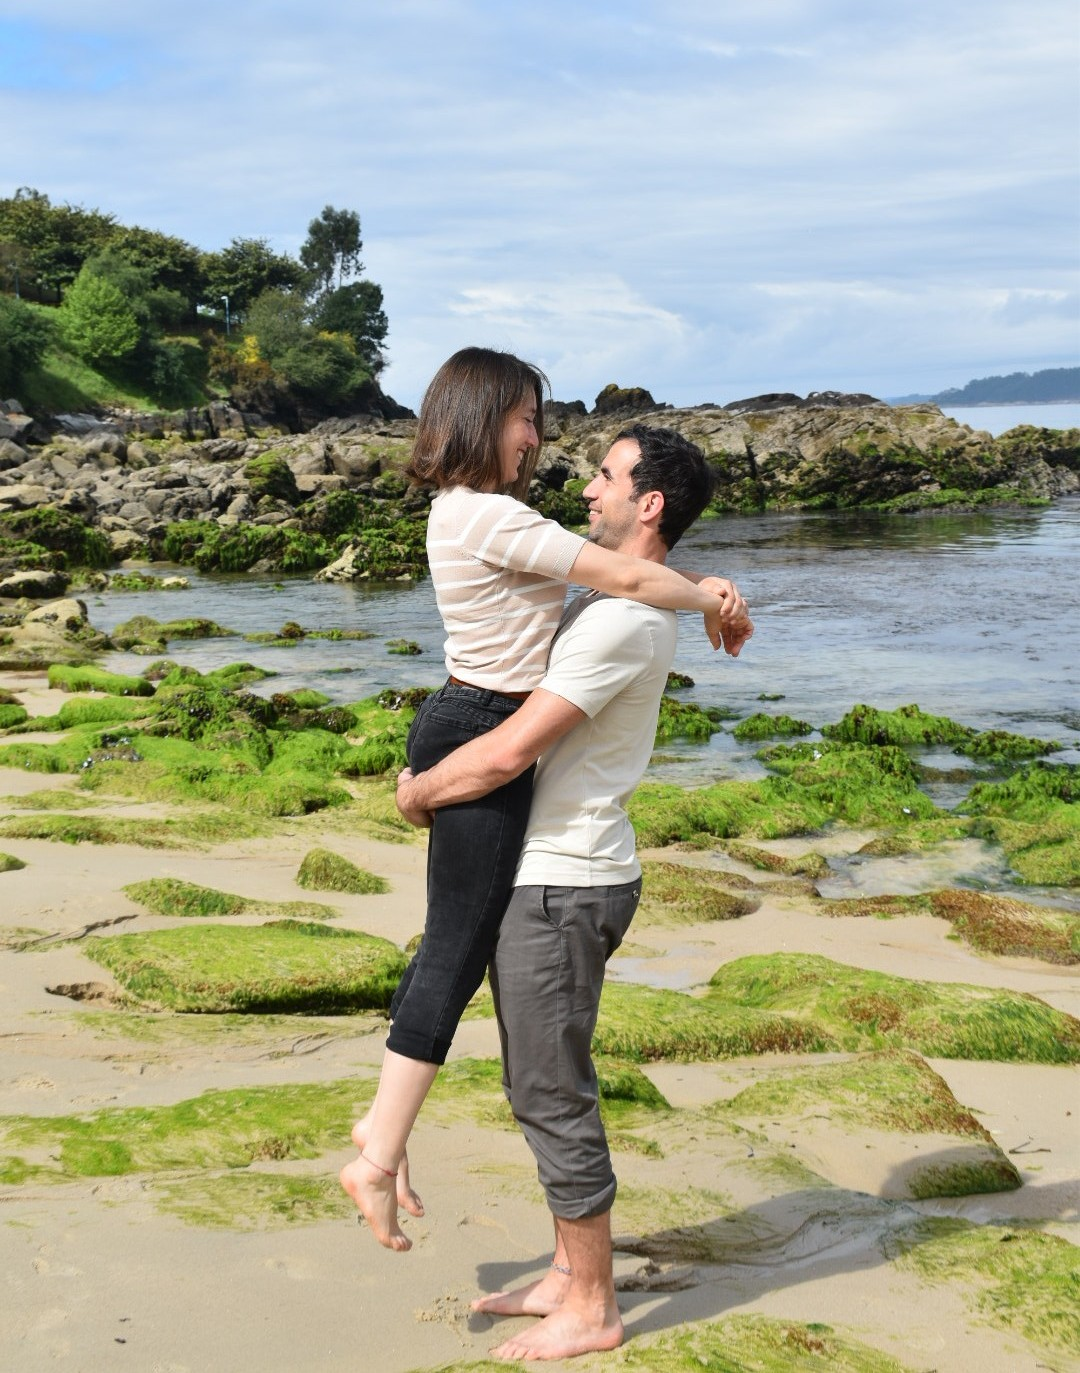
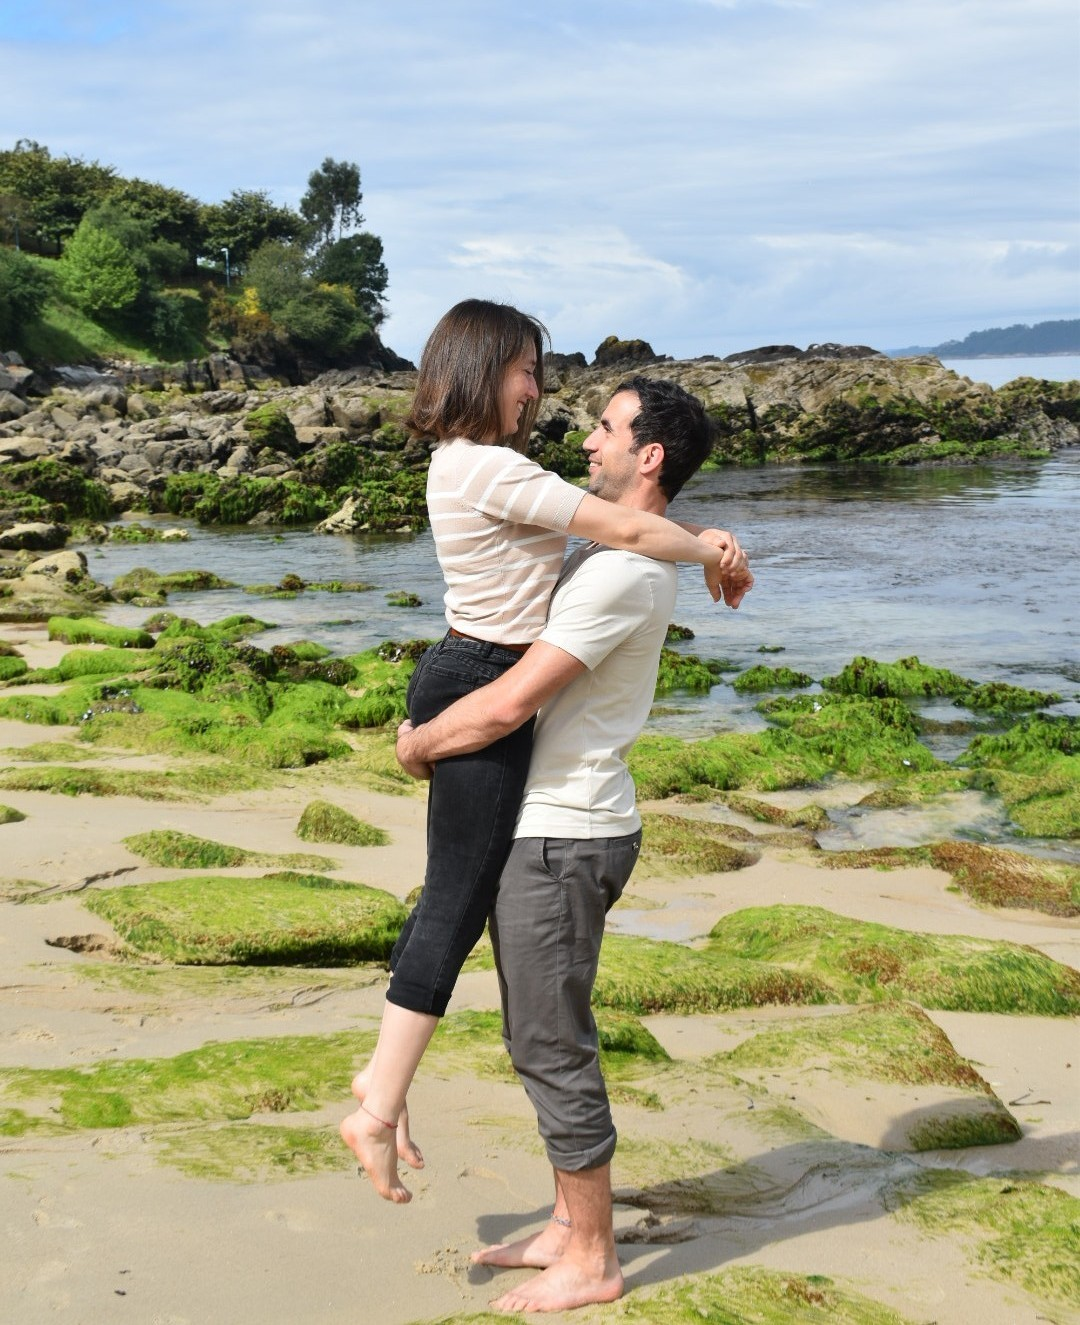
.

diff --git a/index.html b/index.html
@@ -86,7 +86,7 @@
       <img src="/img/divisor.png" alt="Divisor" class="not-inverted">
     </div>
     <div class="confirm-inner3" style="width:100%;">
-      <img src="/img/pareja-fechas-mod-int2.png" alt="Acompañanos" class="names-image" style="height:auto;margin-top:-6%;margin-bottom:-42%;width:100%;">
+      <img src="/img/pareja-fechas-mod-int2.png" alt="Acompañanos" class="names-image" style="height:auto;margin-top:1%;margin-bottom:2%;width:100%;">
 
       <div class="map-wrap" style="margin-bottom: 4em;margin-top: 1em;">
         <a href="https://maps.app.goo.gl/Xhffhaaz1wjXCUYC8" target="_blank" class="map-circle-btn" rel="noopener noreferrer" aria-label="Ver ubicación (Iglesia)">
@@ -99,7 +99,7 @@
       <img src="/img/finca.png" style="margin-top:4em;" class="salon-logo" alt="Finca El Jardín">
 
       <div class="map-wrap" style="margin-bottom: 4em;">
-        <div class="map-caption" style="transform: translate(-12em, -14em);font-size:0.8rem;">Y posteriormente celebra con nosotros en</div>
+        <div class="map-caption" style="transform: translate(-11em, -14em);font-size:0.8rem;">Y posteriormente celebra con nosotros en</div>
         <a href="https://www.google.com/maps/place/Finca+El+Jard%C3%ADn/@37.7434613,-1.2013204,12z/data=!4m10!1m2!2m1!1sfinca+el+jardin+san+pedro+del+pinatar!3m6!1s0xd636f467b910703:0xfa0267076ecdd67d!8m2!3d37.7434613!4d-1.0571248!15sCiVmaW5jYSBlbCBqYXJkaW4gc2FuIHBlZHJvIGRlbCBwaW5hdGFyWiciJWZpbmNhIGVsIGphcmRpbiBzYW4gcGVkcm8gZGVsIHBpbmF0YXKSAQ13ZWRkaW5nX3ZlbnVlmgEkQ2hkRFNVaE5NRzluUzBWSlEwRm5TVU40TFdWVVFXeDNSUkFC4AEA-gEFCIQDEDE!16s%2Fg%2F11h9gdbtlj?entry=ttu&g_ep=EgoyMDI2MDMwNC4xIKXMDSoASAFQAw%3D%3D" target="_blank" class="map-circle-btn" rel="noopener noreferrer" aria-label="Ver ubicación (Finca El Jardín)">
           <img src="/img/map-locator.png"  alt="Ver ubicación Finca El Jardín" class="map-locator">
           <span class="visually-hidden">Finca El Jardín</span>
@@ -122,9 +122,9 @@
       <div class="itinerario-item">
         <img src="/img/Itinerario2.png" alt="Itinerario 2" class="itinerario-frame">
       </div>
-      <!-- <div class="itinerario-item">
+      <div class="itinerario-item">
         <img src="/img/Itinerario3.png" alt="Itinerario 3" class="itinerario-frame-big">
-      </div> -->
+      </div>
       <div class="itinerario-item">
         <img src="/img/Itinerario4.png" alt="Itinerario 4" class="itinerario-frame-big">
       </div>
@@ -134,9 +134,9 @@
       <div class="itinerario-item">
         <img src="/img/Itinerario6.png" alt="Itinerario 6" class="itinerario-frame-big">
       </div>
-      <!-- <div class="itinerario-item">
-        <img src="/img/Itinerario7.png" alt="Itinerario 7" class="itinerario-frame-big2">
-      </div> -->
+      <div class="itinerario-item">
+        <img src="/img/itinerariovueltabus.png" alt="Itinerario 7" class="itinerario-frame-big2">
+      </div>
     </div>
   </section>
 
@@ -154,7 +154,7 @@
         <a href="https://forms.gle/b8dUtd2eACqCHoUj8" target="_blank" rel="noopener noreferrer" style="font-family: 'Playfair Display', serif !important;" class="confirm-btn" aria-label="Ir al formulario de confirmación">
           <img src="/img/love-letter.png" alt="Sobre de invitación" class="confirm-locator">
           <span class="visually-hidden">Confirmación</span>
-          <div class="confirm-caption">(Pulsa sobre el sobre)</div>
+          <div class="confirm-caption">(Pulsa en el sobre)</div>
         </a>
         
       <div class="confirm-content card-arco3" style="width:100%; transform: translate(0%, 75%);">
@@ -184,7 +184,7 @@
       </p>
 
       <div style="margin-top: -1.5rem;margin-bottom: 2rem;">
-        <a href="https://open.spotify.com/playlist/1A7QIi61KRjvap6yZkLa6I" target="_blank" rel="noopener noreferrer" class="bouncy">
+        <a href="https://open.spotify.com/playlist/1A7QIi61KRjvap6yZkLa6I?si=hp5kAnJ_Tuyiz--ArmiZ2g&utm_source=copy-link&pi=EYCQ9NUwRtGa2&pt=acf9c004e96493747ada0c86942cf65b" target="_blank" rel="noopener noreferrer" class="bouncy">
           <img src="/img/spotify-logo.png" alt="Playlist" class="fiesta-spoti" style="width: 42%;">
           <div class="map-caption-red">(Pulsa para abrir Spotify)</div>
         </a>
@@ -295,26 +295,40 @@
         <details>
           <summary>1. Lugar de salida y vuelta de buses</summary>
           <div class="faq-content">
-            <p style="color:#CF521A;font-family: 'Playfair Display', serif !important;font-size: 0.95em;">Estamos trabajando en poder habilitar un autobús para el transporte al banquete. Os agradeceríamos que nos informarais en el cuestionario si los utilizaríais y os informaremos en cuanto tengamos más detalles.</p>
+            <p style="color:#CF521A;font-family: 'Playfair Display', serif !important;font-size: 0.95em;">
+              El autobús de cortesía saldrá puntualmente a las 13:30 desde la explanada de Lo Pagán, facilitando el traslado de los invitados hasta la Finca El Jardín para la celebración. Al finalizar la fiesta, el regreso está previsto a las 02:15 desde la finca al mismo punto de partida. Rogamos puntualidad para garantizar el buen desarrollo del evento.
+            </p>
           </div>
         </details>
 
         <details>
-          <summary>2. Código de vestimenta</summary>
+          <summary>2. Número de cuenta</summary>
+          <div class="faq-content">
+            <p style="color:#CF521A;font-family: 'Playfair Display', serif !important;font-size: 0.95em;">
+              Si os apetece tener un detalle con nosotros por nuestra boda, podéis hacerlo mediante transferencia a este número de cuenta:
+            </p>
+            <p style="color:#CF521A;font-family: 'Playfair Display', serif !important;font-size: 1.05em;font-weight: 600;letter-spacing: 0.02em;user-select: all;-webkit-user-select: all;word-break: break-word;overflow-wrap: anywhere;">
+              ES08 0182 5319 7102 0877 8123
+            </p>
+          </div>
+        </details>
+
+        <details>
+          <summary>3. Código de vestimenta</summary>
           <div class="faq-content">
             <p style="color:#CF521A;font-family: 'Playfair Display', serif !important;font-size: 0.95em;">Recomendamos traje de cóctel o vestido elegante. Evitad ropa deportiva. Si tenéis dudas consultad con la organización.</p>
           </div>
         </details>
 
         <details>
-          <summary>3. Horario ceremonia</summary>
+          <summary>4. Horario ceremonia</summary>
           <div class="faq-content">
             <p style="color:#CF521A;font-family: 'Playfair Display', serif !important;font-size: 0.95em;">La ceremónia empieza a las 12:00, pero rogamos que los invitados lleguen con al menos 30 minutos de antelación para asegurar un inicio puntual.</p>
           </div>
         </details>
 
         <details>
-          <summary>4. Invitados</summary>
+          <summary>5. Invitados</summary>
           <div class="faq-content">
             <p style="color:#CF521A;font-family: 'Playfair Display', serif !important;font-size: 0.95em;"></p>
           <p style="color:#CF521A;font-family: 'Playfair Display', serif !important;font-size: 0.95em;">
